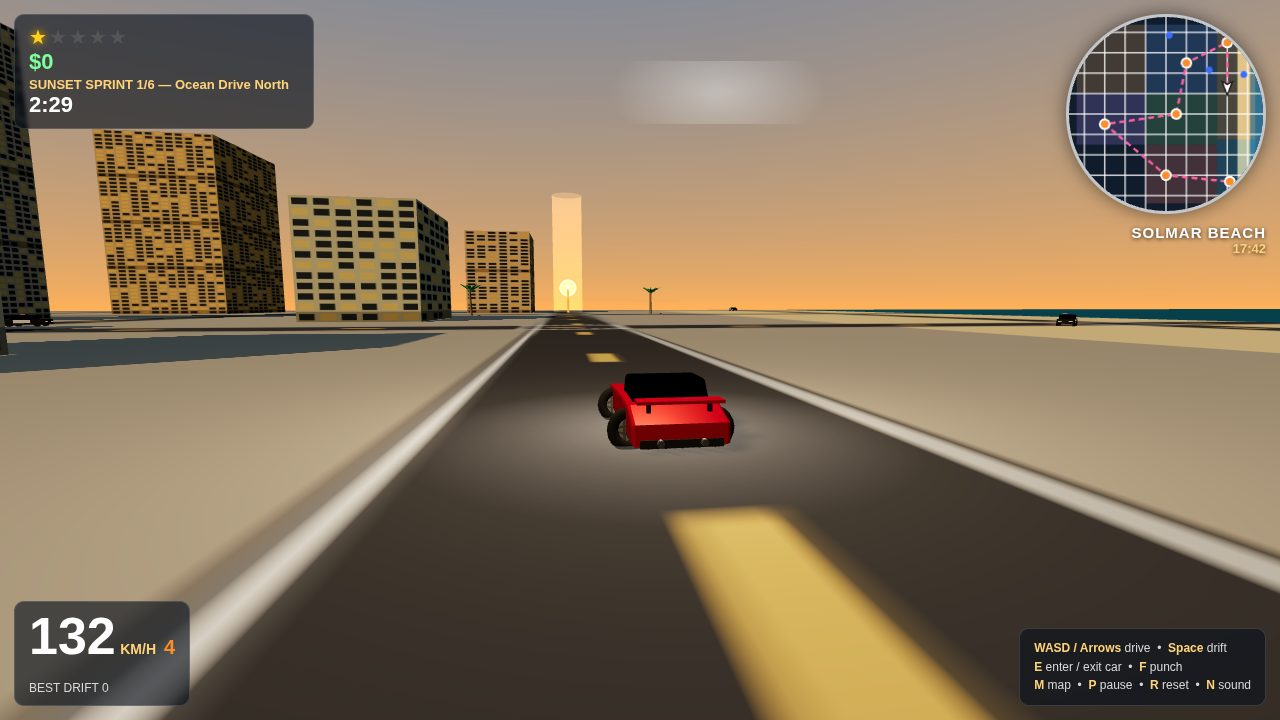
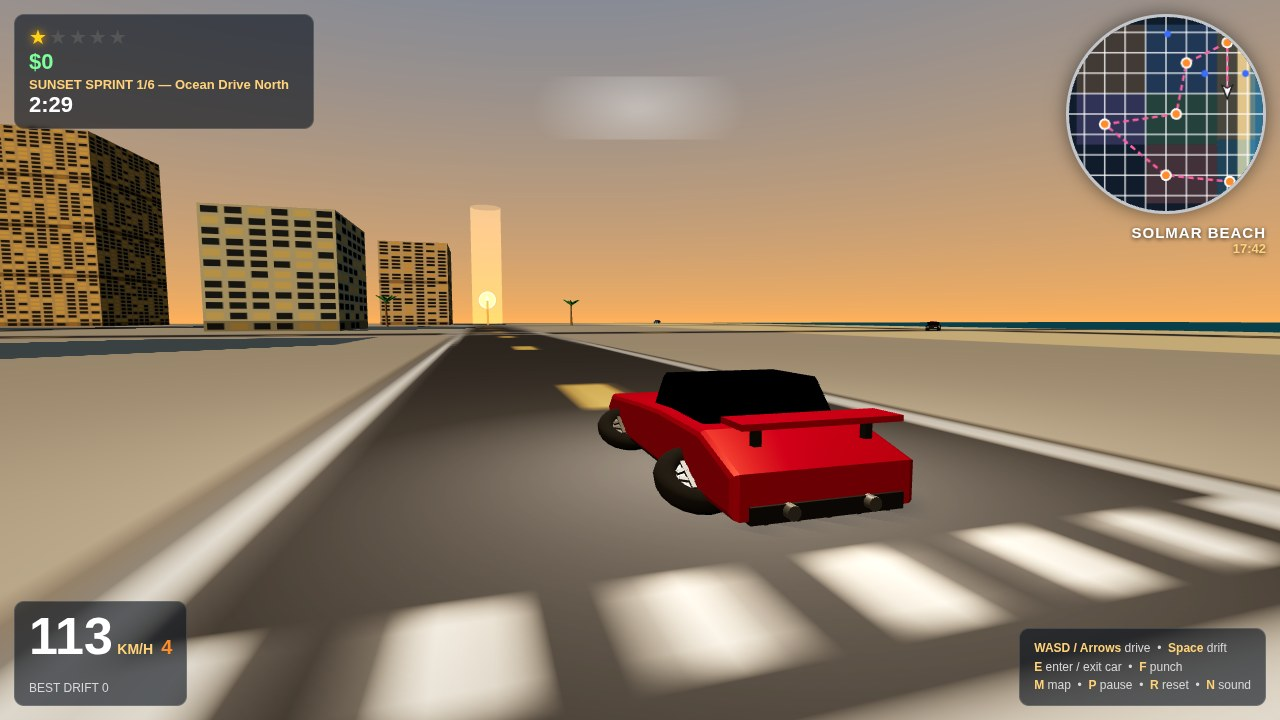
V15 polish: 3/4 rear chase camera, hero fills ~27% of frame

diff --git a/game/src/render.js b/game/src/render.js
@@ -64,18 +64,21 @@ SB.render = (function () {
 
   // Snap the chase camera behind the car at once (no lerp from the world
   // origin — the screenshot shot needs the framing right from the first frame).
+  // 3/4 rear angle: offset well to the car's west (sunlit) side and pulled
+  // close, so the hero fills ~25-30% of the frame and reads as a sports car
+  // (side profile + rear, taillight bar, spoiler, spoked wheels, diffuser).
   function snapChaseCamera(carPos, heading) {
     const back = new THREE.Vector3(-Math.sin(heading), 0, -Math.cos(heading));
     const right = { x: -Math.cos(heading), z: Math.sin(heading) };
     camPos.set(
-      carPos.x + back.x * 6.8 - right.x * 2.2,
-      (carPos.y || 0) + 2.9,
-      carPos.z + back.z * 6.8 - right.z * 2.2
+      carPos.x + back.x * 4.1 - right.x * 3.0,
+      (carPos.y || 0) + 2.0,
+      carPos.z + back.z * 4.1 - right.z * 3.0
     );
     camLook.set(
-      carPos.x + Math.sin(heading) * 8,
-      (carPos.y || 0) + 1.3,
-      carPos.z + Math.cos(heading) * 8
+      carPos.x + Math.sin(heading) * 6,
+      (carPos.y || 0) + 1.2,
+      carPos.z + Math.cos(heading) * 6
     );
     camera.position.copy(camPos);
     camera.lookAt(camLook);
@@ -83,21 +86,22 @@ SB.render = (function () {
 
   // Chase camera: low and close behind the car, on the LIT side (the sun is in
   // the south-west, behind/above the camera, so the car side we see is lit).
+  // 3/4 rear angle, pulled close: the hero fills ~25-30% of the frame.
   // FOV widens slightly with speed for a sense of motion.
   function updateChaseCamera(carPos, heading, speed, dt) {
     const back = new THREE.Vector3(-Math.sin(heading), 0, -Math.cos(heading));
-    // Slight offset to the car's west (sunlit) side, so the camera sees the
+    // Wide offset to the car's west (sunlit) side, so the camera sees the
     // car at a 3/4 rear angle instead of dead-centre behind it.
     const right = { x: -Math.cos(heading), z: Math.sin(heading) };
     const target = new THREE.Vector3(
-      carPos.x + back.x * 6.8 - right.x * 2.2,
-      (carPos.y || 0) + 2.9,
-      carPos.z + back.z * 6.8 - right.z * 2.2
+      carPos.x + back.x * 4.1 - right.x * 3.0,
+      (carPos.y || 0) + 2.0,
+      carPos.z + back.z * 4.1 - right.z * 3.0
     );
     const look = new THREE.Vector3(
-      carPos.x + Math.sin(heading) * 8,
-      (carPos.y || 0) + 1.3,
-      carPos.z + Math.cos(heading) * 8
+      carPos.x + Math.sin(heading) * 6,
+      (carPos.y || 0) + 1.2,
+      carPos.z + Math.cos(heading) * 6
     );
     const k = 1 - Math.exp(-6 * dt);
     camPos.lerp(target, k);
